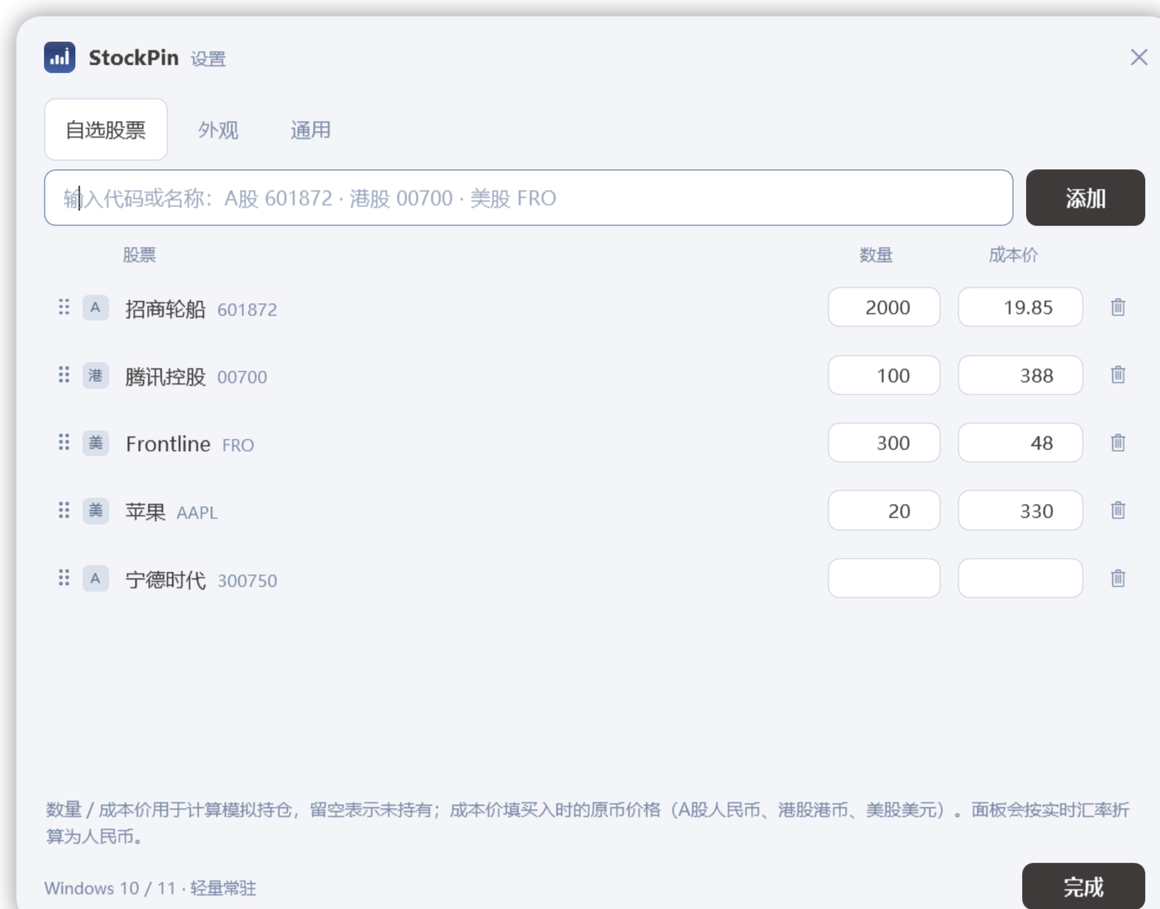
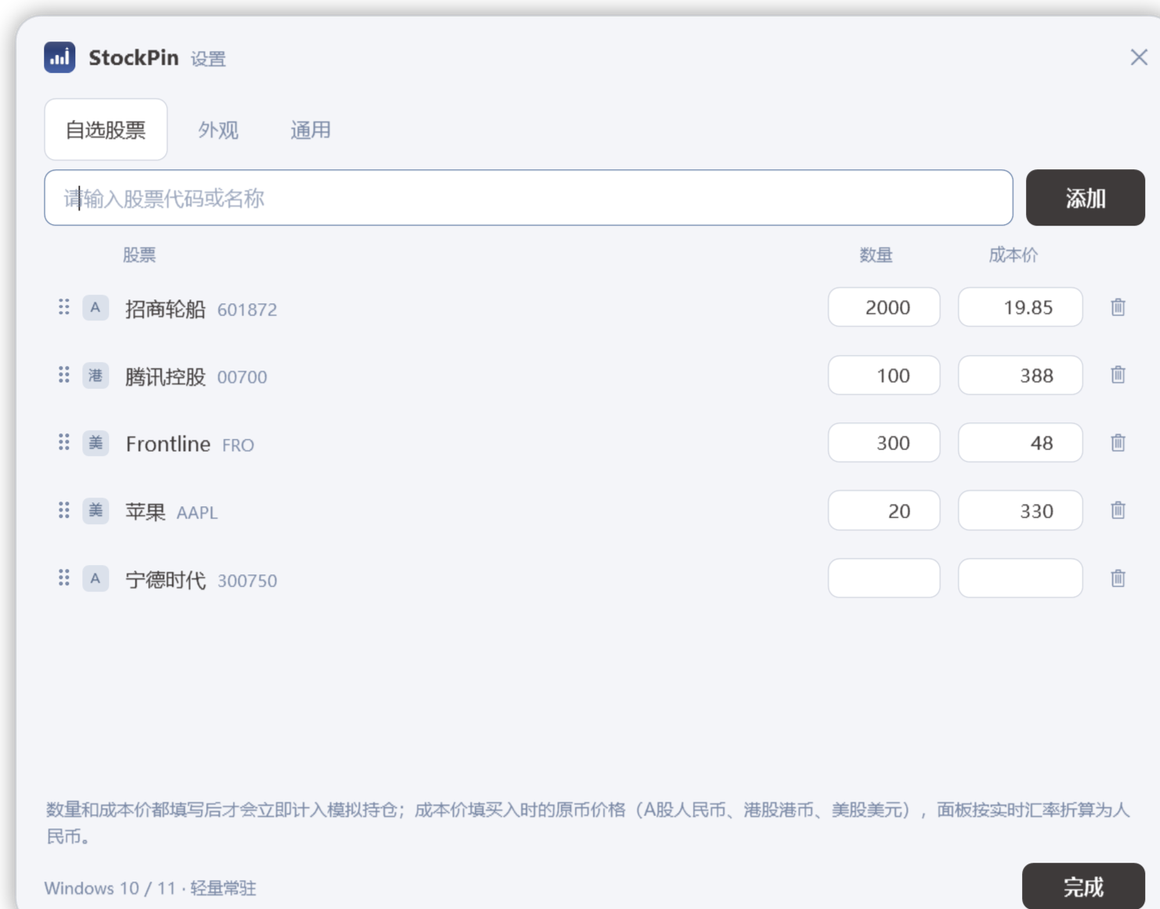
v1.1.3: live portfolio updates, pin sync, narrower panel

Changed region(s): [[0.1241, 0.8625, 0.9621, 0.9241], [0.0621, 0.1848, 0.4655, 0.2464], [0.031, 0.8625, 0.1241, 0.9241]]

diff --git a/Views/SettingsWindow.xaml b/Views/SettingsWindow.xaml
@@ -1,4 +1,4 @@
-<Window x:Class="StockPin.Views.SettingsWindow"
+<Window x:Class="StockPin.Views.SettingsWindow"
         xmlns="http://schemas.microsoft.com/winfx/2006/xaml/presentation"
         xmlns:x="http://schemas.microsoft.com/winfx/2006/xaml"
         Title="StockPin 设置"
@@ -96,7 +96,7 @@
                             <TextBox x:Name="AddBox" Style="{StaticResource InputBox}" Height="36" FontSize="12.5"
                                      KeyDown="AddBox_KeyDown" TextChanged="AddBox_TextChanged" />
                             <TextBlock x:Name="AddPlaceholder"
-                                       Text="输入代码或名称：A股 601872 · 港股 00700 · 美股 FRO"
+                                       Text="请输入股票代码或名称"
                                        FontSize="12.5" Foreground="{DynamicResource TextMuted}" Opacity="0.75"
                                        Margin="13,0,0,0" VerticalAlignment="Center" IsHitTestVisible="False" />
                         </Grid>
@@ -242,13 +242,13 @@
                                     <TextBox Grid.Column="3" Style="{StaticResource InputBox}" Height="26"
                                              FontSize="12" Padding="8,0" VerticalContentAlignment="Center"
                                              Margin="6,0" MaxLength="9" TextAlignment="Right"
-                                             Text="{Binding QtyText, Mode=TwoWay, UpdateSourceTrigger=LostFocus}"
+                                             Text="{Binding QtyText, Mode=TwoWay, UpdateSourceTrigger=PropertyChanged}"
                                              ToolTip="持有数量，留空表示不持仓" />
 
                                     <TextBox Grid.Column="4" Style="{StaticResource InputBox}" Height="26"
                                              FontSize="12" Padding="8,0" VerticalContentAlignment="Center"
                                              Margin="6,0" MaxLength="12" TextAlignment="Right"
-                                             Text="{Binding CostText, Mode=TwoWay, UpdateSourceTrigger=LostFocus}"
+                                             Text="{Binding CostText, Mode=TwoWay, UpdateSourceTrigger=PropertyChanged}"
                                              ToolTip="成本价（该股票所在市场的原币价格）" />
 
                                     <Button Grid.Column="5" Style="{StaticResource IconButton}" Width="26" Height="26"
@@ -261,7 +261,7 @@
                     </ListBox>
 
                     <TextBlock Grid.Row="4" Style="{StaticResource Hint}"
-                               Text="数量 / 成本价用于计算模拟持仓，留空表示未持有；成本价填买入时的原币价格（A股人民币、港股港币、美股美元）。面板会按实时汇率折算为人民币。" />
+                               Text="数量和成本价都填写后才会立即计入模拟持仓；成本价填买入时的原币价格（A股人民币、港股港币、美股美元），面板按实时汇率折算为人民币。" />
                 </Grid>
 
                 <!-- appearance -->

diff --git a/Views/MainWindow.xaml b/Views/MainWindow.xaml
@@ -1,9 +1,9 @@
-<Window x:Class="StockPin.Views.MainWindow"
+<Window x:Class="StockPin.Views.MainWindow"
         xmlns="http://schemas.microsoft.com/winfx/2006/xaml/presentation"
         xmlns:x="http://schemas.microsoft.com/winfx/2006/xaml"
         Title="StockPin"
         Icon="pack://application:,,,/Assets/app.ico"
-        Width="344"
+        Width="330"
         SizeToContent="Height"
         MaxHeight="720"
         WindowStyle="None"

diff --git a/Core/StockEntry.cs b/Core/StockEntry.cs
@@ -24,6 +24,8 @@ public sealed class StockEntry : ObservableObject
     private int _qty;
     private double _cost;
     private string _sessionText = "";
+    private string _qtyText = "";
+    private string _costText = "";
 
     public StockEntry(string secId, string code, string name, string market, int qty = 0, double cost = 0)
     {
@@ -33,6 +35,8 @@ public sealed class StockEntry : ObservableObject
         _name = name;
         _qty = qty;
         _cost = cost;
+        _qtyText = qty > 0 ? qty.ToString(CultureInfo.InvariantCulture) : "";
+        _costText = cost > 0 ? cost.ToString("0.###", CultureInfo.InvariantCulture) : "";
     }
 
     public string SecId { get; }
@@ -72,78 +76,61 @@ public sealed class StockEntry : ObservableObject
         get => _qty;
         set
         {
-            if (Set(ref _qty, Math.Max(0, value)))
-            {
-                OnPropertyChanged(nameof(QtyText));
-                OnPropertyChanged(nameof(HasPosition));
-            }
+            if (Set(ref _qty, Math.Max(0, value))) OnPropertyChanged(nameof(HasPosition));
         }
     }
 
     public double Cost
     {
         get => _cost;
-        set
-        {
-            if (Set(ref _cost, Math.Max(0, value))) OnPropertyChanged(nameof(CostText));
-        }
+        set => Set(ref _cost, Math.Max(0, value));
     }
 
-    public bool HasPosition => _qty > 0;
+    public bool HasPosition => _qty > 0 && _cost > 0;
 
-    /// <summary>Text shown in the settings list; empty means "no position".</summary>
+    /// <summary>
+    /// Live-edited text. The raw string is kept so the caret never jumps, and the
+    /// numeric value is parsed on every keystroke so the panel updates immediately.
+    /// </summary>
     public string QtyText
     {
-        get => _qty == 0 ? "" : _qty.ToString(CultureInfo.InvariantCulture);
+        get => _qtyText;
         set
         {
-            var text = (value ?? "").Trim().Replace(",", "").Replace(" ", "");
-            if (text.Length == 0)
-            {
-                if (_qty != 0)
-                {
-                    _qty = 0;
-                    OnPropertyChanged(nameof(Qty));
-                    OnPropertyChanged(nameof(QtyText));
-                    OnPropertyChanged(nameof(HasPosition));
-                }
-                else
-                {
-                    OnPropertyChanged(nameof(QtyText));
-                }
-                return;
-            }
+            var text = value ?? "";
+            if (_qtyText == text) return;
+            _qtyText = text;
 
-            if (int.TryParse(text, NumberStyles.Integer, CultureInfo.InvariantCulture, out var qty) && qty >= 0)
+            var trimmed = text.Trim().Replace(",", "").Replace(" ", "");
+            if (trimmed.Length == 0)
             {
-                if (_qty != qty)
-                {
-                    _qty = qty;
-                    OnPropertyChanged(nameof(Qty));
-                    OnPropertyChanged(nameof(HasPosition));
-                }
+                Qty = 0;
             }
-
-            OnPropertyChanged(nameof(QtyText));
+            else if (int.TryParse(trimmed, NumberStyles.Integer, CultureInfo.InvariantCulture, out var qty) && qty >= 0)
+            {
+                Qty = qty;
+            }
         }
     }
 
     public string CostText
     {
-        get => _cost <= 0 ? "" : _cost.ToString("0.###", CultureInfo.InvariantCulture);
+        get => _costText;
         set
         {
-            var text = (value ?? "").Trim().Replace(",", "").Replace(" ", "");
-            if (text.Length == 0)
+            var text = value ?? "";
+            if (_costText == text) return;
+            _costText = text;
+
+            var trimmed = text.Trim().Replace(",", "").Replace(" ", "");
+            if (trimmed.Length == 0)
             {
-                _cost = 0;
+                Cost = 0;
             }
-            else if (double.TryParse(text, NumberStyles.Float, CultureInfo.InvariantCulture, out var cost) && cost >= 0)
+            else if (double.TryParse(trimmed, NumberStyles.Float, CultureInfo.InvariantCulture, out var cost) && cost >= 0)
             {
-                _cost = cost;
+                Cost = cost;
             }
-            OnPropertyChanged(nameof(Cost));
-            OnPropertyChanged(nameof(CostText));
         }
     }
 

diff --git a/ViewModels/MainViewModel.cs b/ViewModels/MainViewModel.cs
@@ -294,7 +294,8 @@ public sealed class MainViewModel : ObservableObject
 
         foreach (var s in Stocks)
         {
-            if (s.Qty <= 0) continue;
+            // A holding only counts when both quantity and cost are filled in.
+            if (s.Qty <= 0 || s.Cost <= 0) continue;
             any = true;
             if (!s.HasQuote) continue;
 
@@ -306,8 +307,7 @@ public sealed class MainViewModel : ObservableObject
             };
 
             marketValue += s.Qty * s.Price * fx;
-            // A missing cost price contributes zero profit instead of the full market value.
-            costValue += s.Qty * (s.Cost > 0 ? s.Cost : s.Price) * fx;
+            costValue += s.Qty * s.Cost * fx;
             todayPl += s.Qty * (s.Price - s.PrevClose) * fx;
         }
 

diff --git a/Views/SettingsWindow.xaml.cs b/Views/SettingsWindow.xaml.cs
@@ -82,6 +82,18 @@ public partial class SettingsWindow : Window
         }
     }
 
+    /// <summary>Used when the panel changes shared state (pin, theme) while this window is open.</summary>
+    public void RefreshFromConfig()
+    {
+        _vm.RefreshFromConfig();
+
+        foreach (var radio in IntervalPanel.Children.OfType<RadioButton>())
+        {
+            bool should = string.Equals(radio.Tag as string, _vm.IntervalSec.ToString(), StringComparison.Ordinal);
+            if (radio.IsChecked != should) radio.IsChecked = should;
+        }
+    }
+
     private void Close_Click(object sender, RoutedEventArgs e) => Close();
 
     /// <summary>Used by the design-preview screenshot mode.</summary>

diff --git a/ViewModels/SettingsViewModel.cs b/ViewModels/SettingsViewModel.cs
@@ -106,5 +106,17 @@ public sealed class SettingsViewModel : ObservableObject
         }
     }
 
+    /// <summary>Re-reads the config so changes made on the panel (e.g. the pin) show up here too.</summary>
+    public void RefreshFromConfig()
+    {
+        OnPropertyChanged(nameof(ThemeIndex));
+        OnPropertyChanged(nameof(ShowCode));
+        OnPropertyChanged(nameof(AutoStart));
+        OnPropertyChanged(nameof(IntervalSec));
+        OnPropertyChanged(nameof(BackdropPercent));
+        OnPropertyChanged(nameof(BackdropLabel));
+        OnPropertyChanged(nameof(Locked));
+    }
+
     private void Raise() => Changed?.Invoke();
 }

diff --git a/App.xaml.cs b/App.xaml.cs
@@ -185,6 +185,9 @@ public partial class App : Application
             Panel.RefreshBackdrop();
         }
 
+        // Keep an open settings window in sync with changes made on the panel (e.g. the pin).
+        _settings?.RefreshFromConfig();
+
         if (PersistEnabled && !_demo && _appliedAutoStart != Config.AutoStart)
         {
             StartupService.Apply(Config.AutoStart);

diff --git a/README.md b/README.md
@@ -1,4 +1,4 @@
-# StockPin
+# StockPin
 
 **轻量、半透明、始终置顶的桌面股票盯盘小工具** · A股 / 港股 / 美股 · Windows 10 / 11
 
@@ -14,7 +14,7 @@
 - **可调透明度的面板**：默认 70% 半透明底板，玩游戏、花哨壁纸下也能看清；设置里可从 0%（纯文字）调到 100%，鼠标移入不会改变透明度。
 - **随手拖动**：整块面板都可以拖，松手自动贴边并记住位置；右上角别针一键固定，避免误拖。
 - **休市标注**：非交易时段在股票名后显示「未开盘 / 已收盘 / 午间休市」，节假日同样识别，不再靠置灰判断。
-- **紧凑模拟持仓**：顶部单行显示持仓市值和今日盈亏/涨跌幅；总盈亏放在鼠标悬停提示里。填数量、成本价即可。
+- **紧凑模拟持仓**：数量和成本价都填好后立即更新，顶部单行显示持仓市值和今日盈亏/涨跌幅；总盈亏放在鼠标悬停提示里。
 - **多币种折算**：港股、美股持仓按实时汇率折算为人民币，混合持仓也能算总账。
 - **添加 / 移除 / 排序**：输入代码或中文名即可添加（`A股 601872`、`港股 00700`、`美股 FRO`），支持拖动排序和右键菜单。
 - **4 套主题**：雾灰、蓝调、深海、暮紫；改变面板底色与文字配色，涨跌固定红涨绿跌。
@@ -35,7 +35,7 @@
 2. 面板顶部有 **固定 / 刷新 / 添加 / 设置 / 隐藏** 五个图标，悬停显示提示。
 3. 直接按住任意文字拖动面板；松手会自动贴边并保存位置。
 4. **右键面板**：添加股票、设置、固定位置、隐藏、退出。
-5. **设置 → 自选股票**：输入代码或名称添加；在右侧填写数量、成本价即可看到模拟持仓。
+5. **设置 → 自选股票**：输入代码或名称添加；填好数量和成本价后，面板会立即更新模拟持仓。
 6. 点 **×** 只是收进托盘；托盘图标右键可再次显示面板或退出。
 
 ![设置](docs/settings.png)
